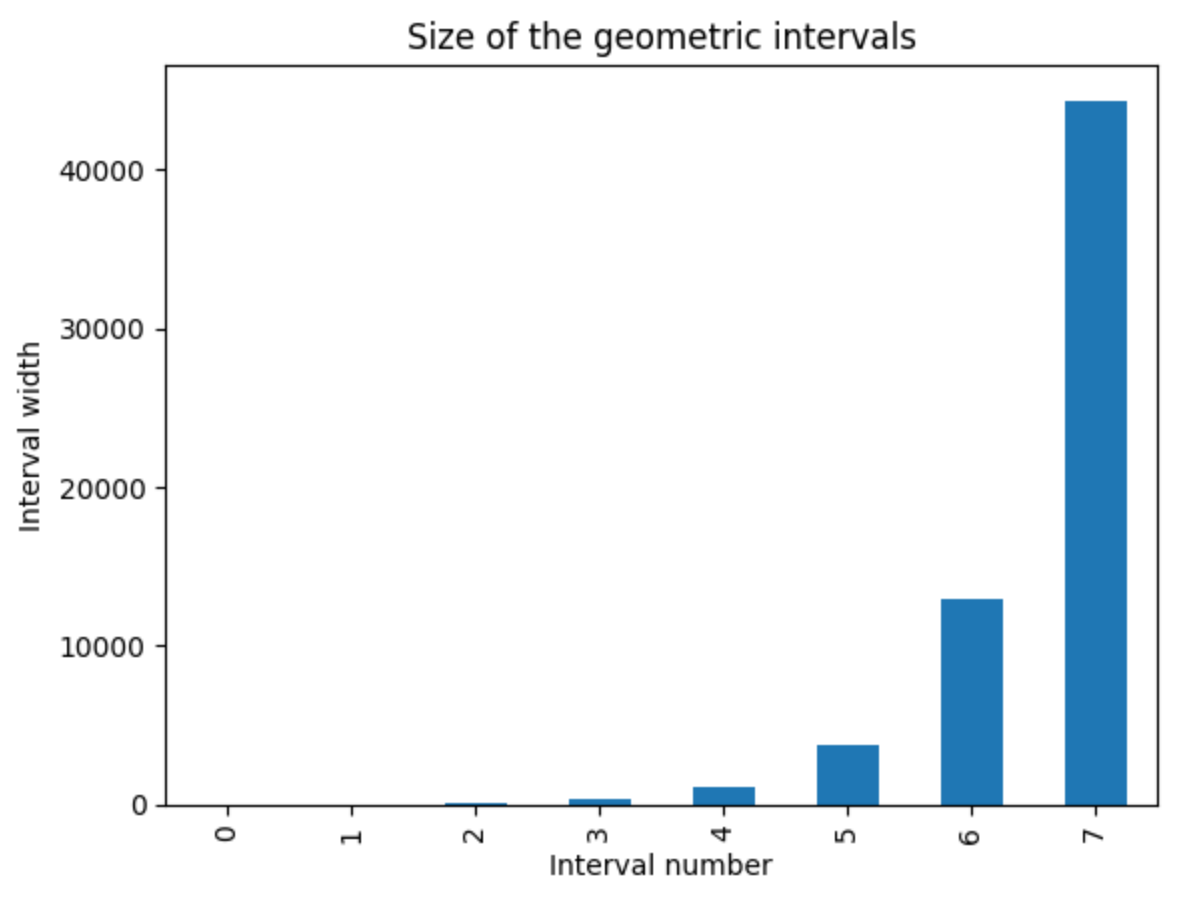
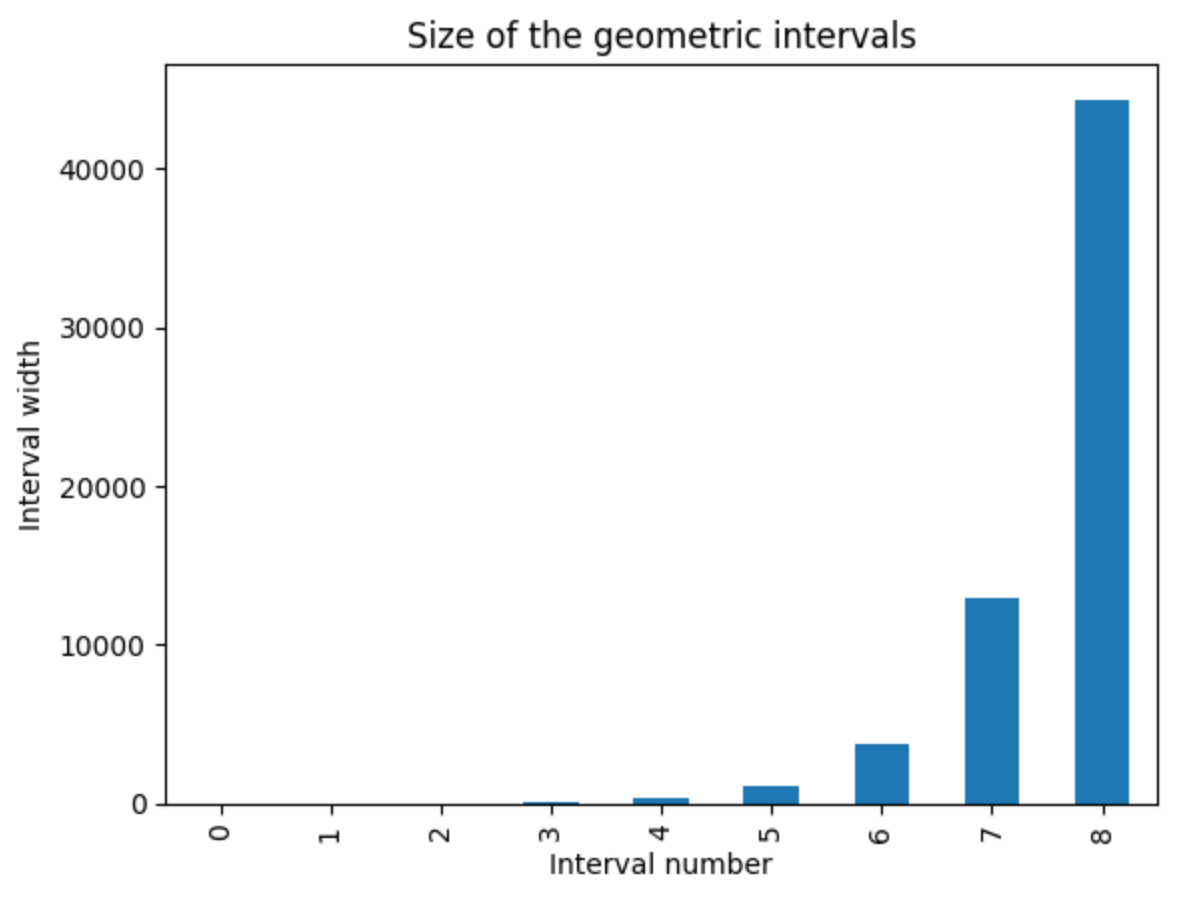
fixed interval calculation

diff --git a/docs/user_guide/discretisation/GeometricWidthDiscretiser.rst b/docs/user_guide/discretisation/GeometricWidthDiscretiser.rst
@@ -133,9 +133,9 @@ The interval width varies. Let's print out the width of each interval to corrobo
 
 .. code:: python
 
-    bin_0 = disc.binner_dict_['LotArea'][1]
+    bin_0 = X_train['LotArea'].min()
     interval = []
-    for bin_ in disc.binner_dict_['LotArea'][2:-1]:
+    for bin_ in disc.binner_dict_['LotArea'][1:-1]:
         int_ = bin_ - bin_0
         print(int_)
         interval.append(int_)
@@ -145,6 +145,7 @@ In the following output we see how the width of each interval increases:
 
 .. code:: python
 
+    3.4121664944211716
     8.230713691228857
     28.084565482384278
     95.82921334936668